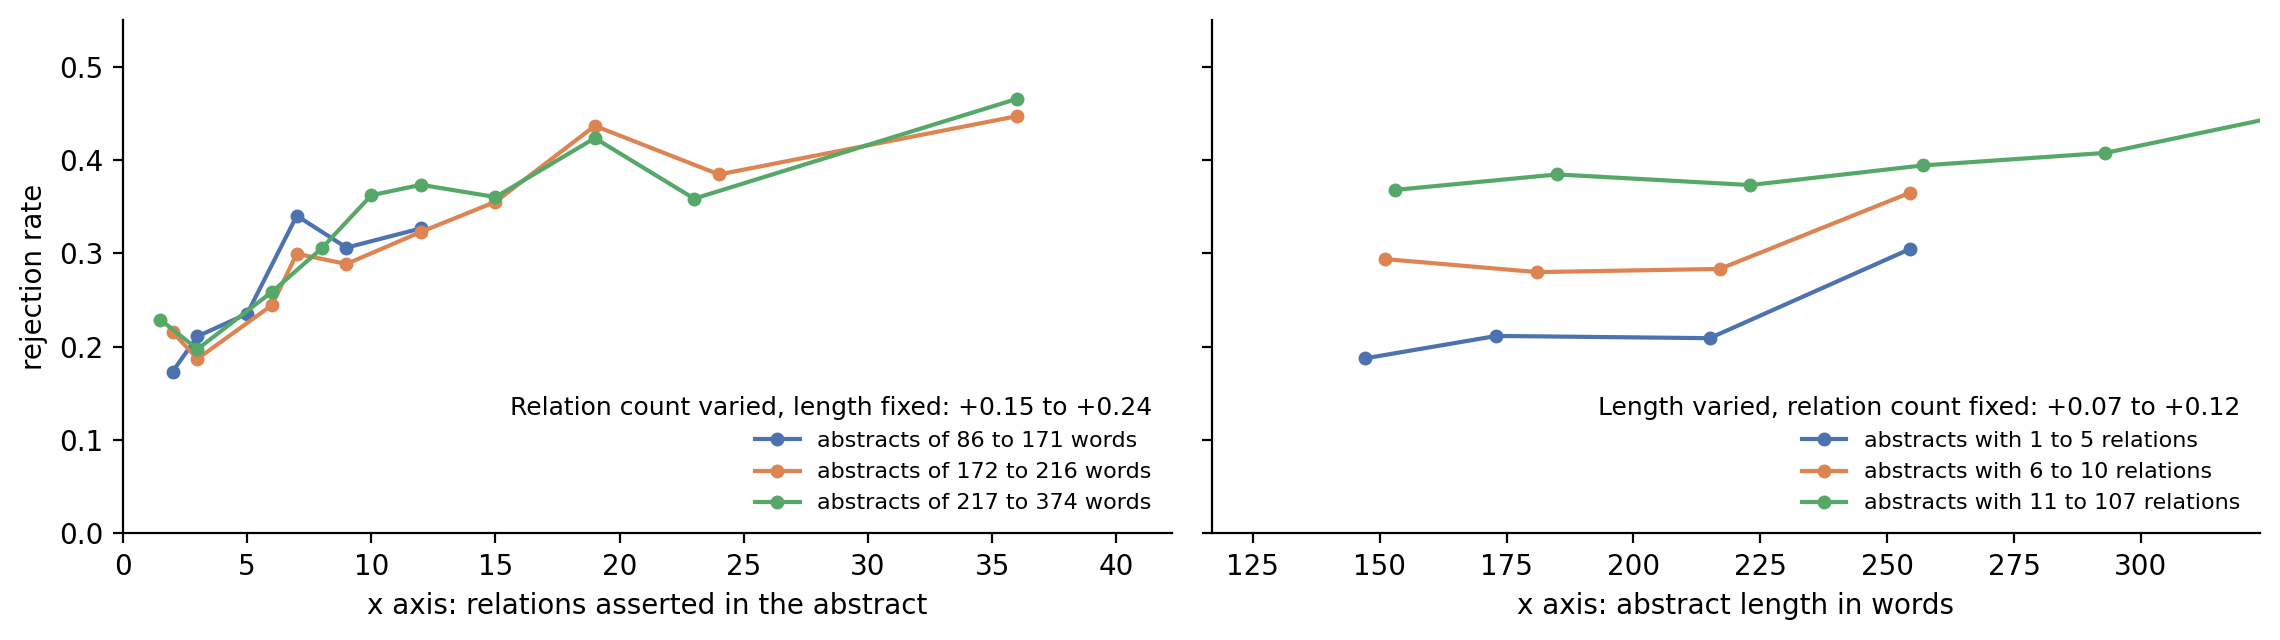
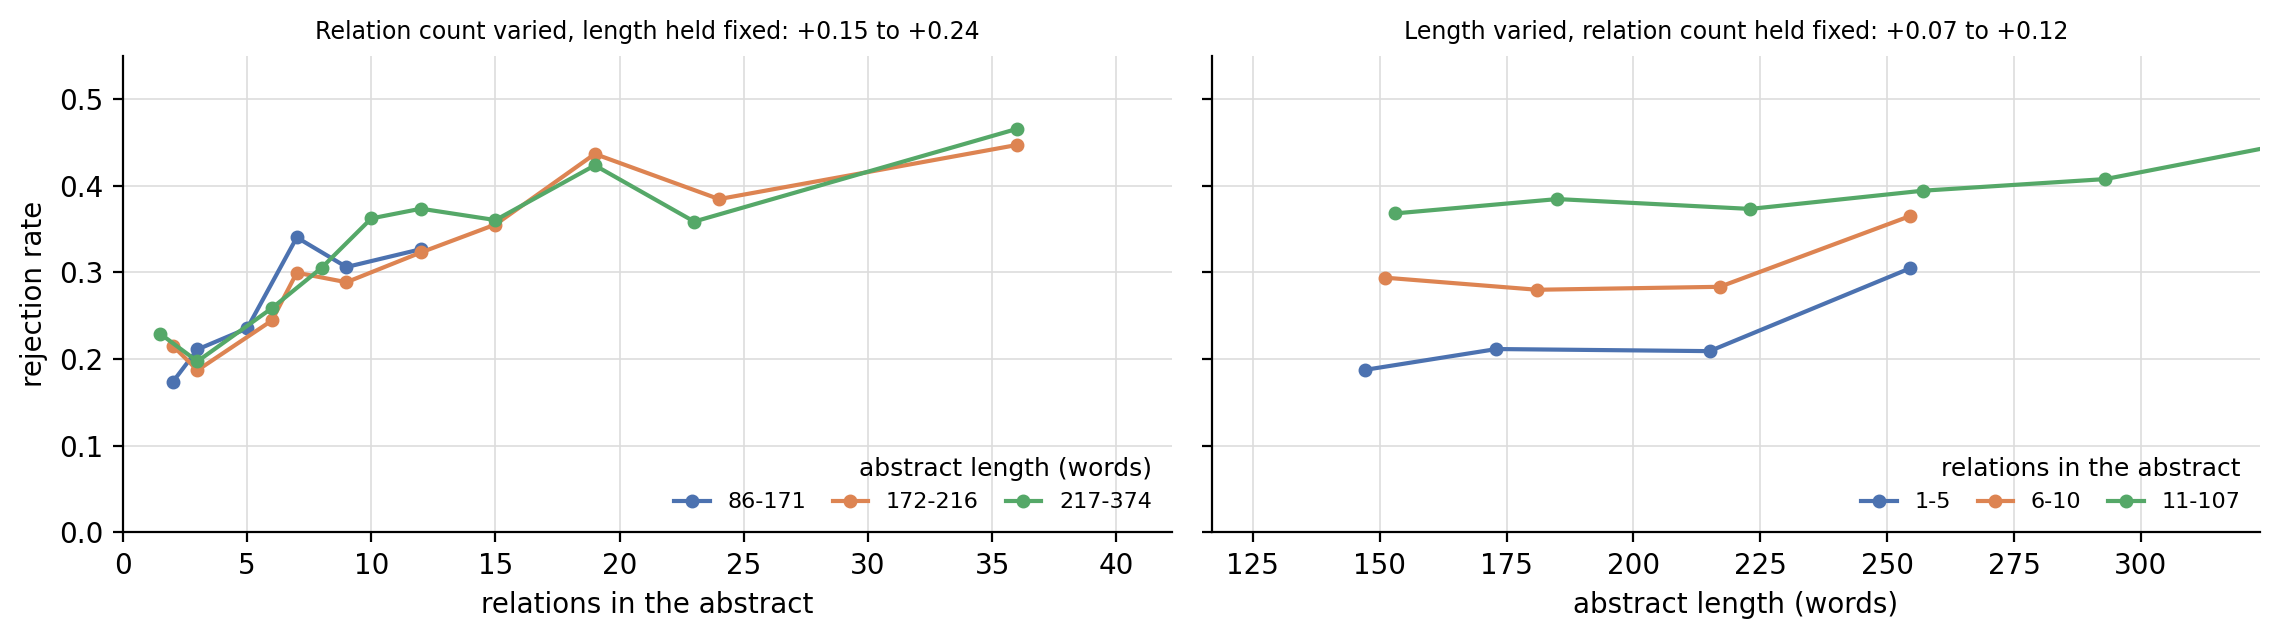
Disentangled figure: one-row legends, gridlines, short panel titles with the measured rise

diff --git a/qc_filtering/error_rate_analysis.py b/qc_filtering/error_rate_analysis.py
@@ -205,12 +205,13 @@ def main():
         b = binned(sub.n_relations, sub.error_rate, rel_edges)
         lo, hi = len_r[lab]
         axes[0].plot(b.centre, b["mean"], marker="o", markersize=4, color=colour,
-                     label=f"abstracts of {lo} to {hi} words")
+                     label=f"{lo}-{hi}")
         swings.append(swing(sub, "n_relations", rel_edges))
     axes[0].set_xlim(0, float(np.quantile(abs_df.n_relations, 0.98)) * 1.03)
-    axes[0].set_xlabel("x axis: relations asserted in the abstract")
+    axes[0].set_xlabel("relations in the abstract")
     axes[0].set_ylabel("rejection rate")
-    titles = [f"Relation count varied, length fixed: {min(swings):+.2f} to {max(swings):+.2f}"]
+    titles = ["abstract length (words)"]
+    rise = [f"{min(swings):+.2f} to {max(swings):+.2f}"]
 
     swings = []
     for lab, colour in zip(["few", "medium", "many"], colours):
@@ -218,18 +219,23 @@ def main():
         b = binned(sub.abstract_words, sub.error_rate, len_edges)
         lo, hi = rel_r[lab]
         axes[1].plot(b.centre, b["mean"], marker="o", markersize=4, color=colour,
-                     label=f"abstracts with {lo} to {hi} relations")
+                     label=f"{lo}-{hi}")
         swings.append(swing(sub, "abstract_words", len_edges))
     axes[1].set_xlim(float(np.quantile(abs_df.abstract_words, 0.01)) * 0.95,
                      float(np.quantile(abs_df.abstract_words, 0.99)) * 1.03)
-    axes[1].set_xlabel("x axis: abstract length in words")
-    titles.append(f"Length varied, relation count fixed: {min(swings):+.2f} to {max(swings):+.2f}")
+    axes[1].set_xlabel("abstract length (words)")
+    titles.append("relations in the abstract")
+    rise.append(f"{min(swings):+.2f} to {max(swings):+.2f}")
 
-    # The panel title doubles as the legend heading, so the figure needs no title row.
+    axes[0].set_title(f"Relation count varied, length held fixed: {rise[0]}", fontsize=8.5)
+    axes[1].set_title(f"Length varied, relation count held fixed: {rise[1]}", fontsize=8.5)
     for ax, title in zip(axes, titles):
         ax.set_ylim(0, 0.55)
         ax.legend(frameon=False, fontsize=8, loc="lower right", title=title,
-                  title_fontsize=9, alignment="right")
+                  title_fontsize=9, alignment="right", ncol=3, columnspacing=1.2,
+                  handlelength=1.6)
+        ax.grid(True, color="#dddddd", linewidth=0.6)
+        ax.set_axisbelow(True)
         ax.spines[["top", "right"]].set_visible(False)
     fig.tight_layout()
     fig.savefig(FIG_DIR / "error_rate_disentangled.png", dpi=200,
